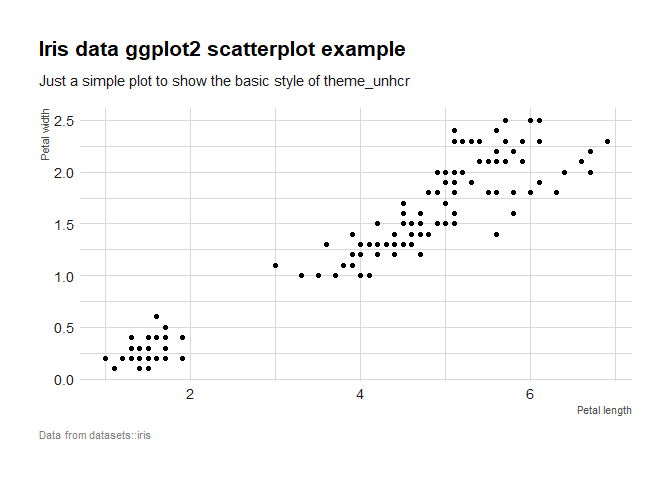
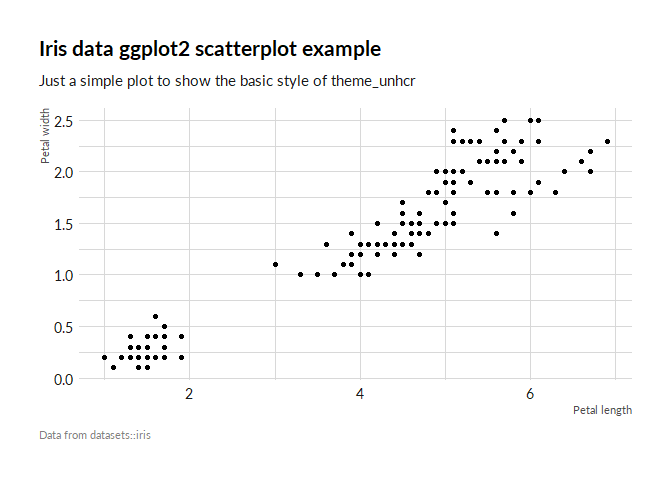
Updated readme

diff --git a/README.md b/README.md
@@ -30,6 +30,12 @@ devtools::install_github("vidonne/unhcrthemes")
 ``` r
 library(unhcrthemes)
 library(ggplot2)
+# install.packages("extrafont")
+library(extrafont)
+
+# Import system font to R, to be done once
+# extrafont::font_import()
+extrafont::loadfonts(device="postscript")
 ```
 
 ### Base ggplot2 theme
@@ -42,62 +48,6 @@ ggplot(datasets::iris, aes(x = Petal.Length, y = Petal.Width)) +
       subtitle= "Just a simple plot to show the basic style of theme_unhcr",
       caption = "Data from datasets::iris") +
   theme_unhcr()
-#> Warning in grid.Call(C_stringMetric, as.graphicsAnnot(x$label)): font family not
-#> found in Windows font database
-
-#> Warning in grid.Call(C_stringMetric, as.graphicsAnnot(x$label)): font family not
-#> found in Windows font database
-
-#> Warning in grid.Call(C_stringMetric, as.graphicsAnnot(x$label)): font family not
-#> found in Windows font database
-
-#> Warning in grid.Call(C_stringMetric, as.graphicsAnnot(x$label)): font family not
-#> found in Windows font database
-
-#> Warning in grid.Call(C_stringMetric, as.graphicsAnnot(x$label)): font family not
-#> found in Windows font database
-#> Warning in grid.Call(C_textBounds, as.graphicsAnnot(x$label), x$x, x$y, : font
-#> family not found in Windows font database
-
-#> Warning in grid.Call(C_textBounds, as.graphicsAnnot(x$label), x$x, x$y, : font
-#> family not found in Windows font database
-
-#> Warning in grid.Call(C_textBounds, as.graphicsAnnot(x$label), x$x, x$y, : font
-#> family not found in Windows font database
-
-#> Warning in grid.Call(C_textBounds, as.graphicsAnnot(x$label), x$x, x$y, : font
-#> family not found in Windows font database
-
-#> Warning in grid.Call(C_textBounds, as.graphicsAnnot(x$label), x$x, x$y, : font
-#> family not found in Windows font database
-
-#> Warning in grid.Call(C_textBounds, as.graphicsAnnot(x$label), x$x, x$y, : font
-#> family not found in Windows font database
-
-#> Warning in grid.Call(C_textBounds, as.graphicsAnnot(x$label), x$x, x$y, : font
-#> family not found in Windows font database
-
-#> Warning in grid.Call(C_textBounds, as.graphicsAnnot(x$label), x$x, x$y, : font
-#> family not found in Windows font database
-
-#> Warning in grid.Call(C_textBounds, as.graphicsAnnot(x$label), x$x, x$y, : font
-#> family not found in Windows font database
-
-#> Warning in grid.Call(C_textBounds, as.graphicsAnnot(x$label), x$x, x$y, : font
-#> family not found in Windows font database
-
-#> Warning in grid.Call(C_textBounds, as.graphicsAnnot(x$label), x$x, x$y, : font
-#> family not found in Windows font database
-#> Warning in grid.Call.graphics(C_text, as.graphicsAnnot(x$label), x$x, x$y, :
-#> font family not found in Windows font database
-#> Warning in grid.Call(C_textBounds, as.graphicsAnnot(x$label), x$x, x$y, : font
-#> family not found in Windows font database
-
-#> Warning in grid.Call(C_textBounds, as.graphicsAnnot(x$label), x$x, x$y, : font
-#> family not found in Windows font database
-
-#> Warning in grid.Call(C_textBounds, as.graphicsAnnot(x$label), x$x, x$y, : font
-#> family not found in Windows font database
 ```
 
 <img src="man/figures/README-plot-theme-1.png" width="100%" />
